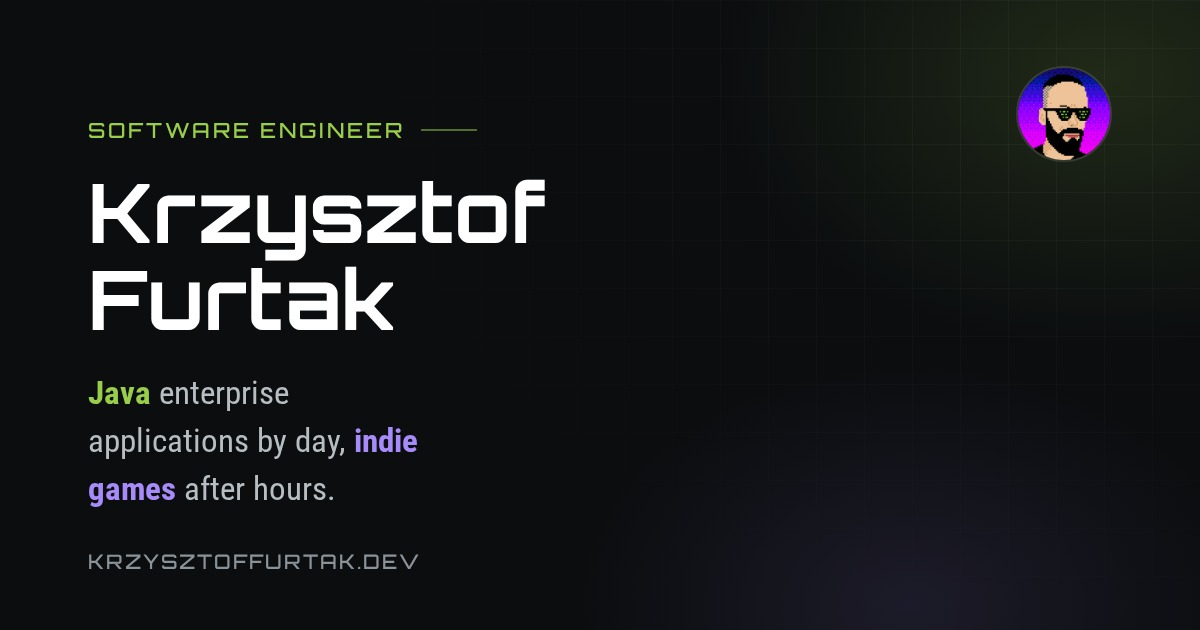
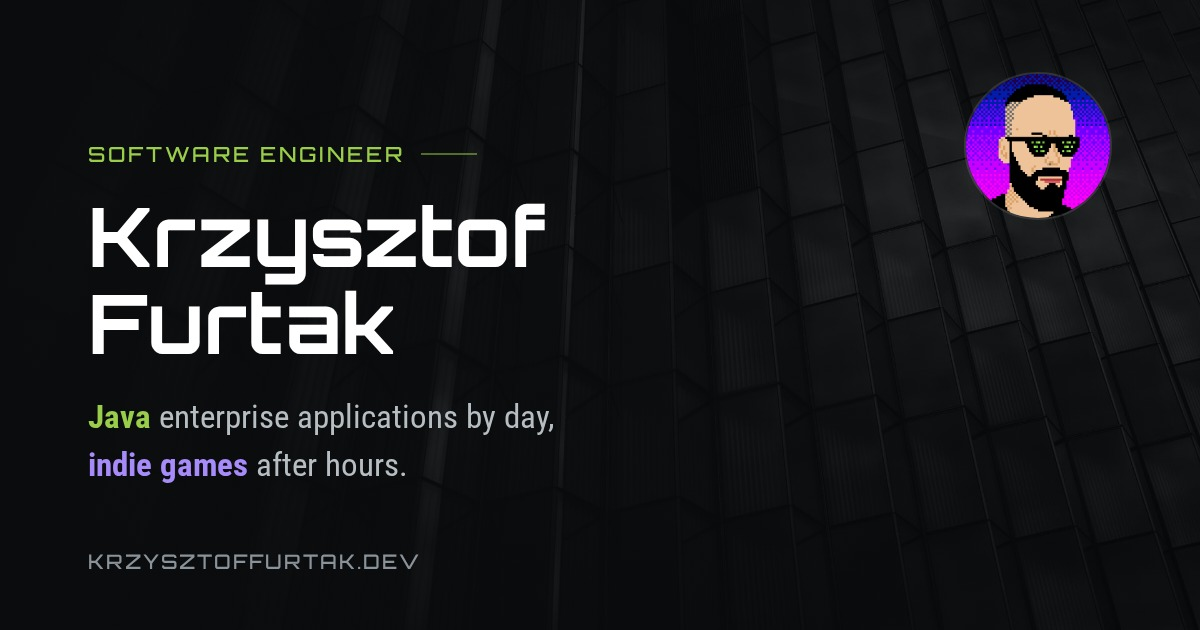
Rewrite the meta description and polish the copy; Size the email button to its content; Rebuild the OG image on the hero photo

diff --git a/src/index.html b/src/index.html
@@ -3,16 +3,16 @@
   <head>
     <meta charset="utf-8">
     <meta name="viewport" content="width=device-width, initial-scale=1">
-    <title>Krzysztof Furtak - Software Engineer</title>
-    <meta name="description" content="The home of my projects and my business card">
+    <title>Krzysztof Furtak — Software Engineer</title>
+    <meta name="description" content="Software engineer building Java enterprise applications by day, and indie games and developer tools after hours.">
     <meta name="author" content="Krzysztof Furtak">
     <meta name="theme-color" content="#0b0d0f">
     <meta name="color-scheme" content="dark">
-    <meta property="og:title" content="Krzysztof Furtak - Software Engineer">
+    <meta property="og:title" content="Krzysztof Furtak — Software Engineer">
     <meta property="og:locale" content="en_US">
     <meta property="og:type" content="website">
     <meta property="og:url" content="https://krzysztoffurtak.dev">
-    <meta property="og:description" content="The home of my projects and my business card">
+    <meta property="og:description" content="Software engineer building Java enterprise applications by day, and indie games and developer tools after hours.">
     <!-- Absolute, because the Open Graph spec asks for it and several scrapers
          will not resolve a root-relative og:image against the page. 1200x630 is
          the ratio LinkedIn, Facebook and X all render without cropping; this
@@ -21,7 +21,7 @@
     <meta property="og:image" content="https://krzysztoffurtak.dev/images/og-image.jpg">
     <meta property="og:image:width" content="1200">
     <meta property="og:image:height" content="630">
-    <meta property="og:image:alt" content="Krzysztof Furtak - software engineer. Java enterprise applications by day, indie games after hours.">
+    <meta property="og:image:alt" content="Krzysztof Furtak, software engineer. Java enterprise applications by day, indie games after hours.">
     <!-- Without this X renders the small square summary card and ignores the
          1.91:1 image entirely. Everything else it needs it takes from og:*. -->
     <meta name="twitter:card" content="summary_large_image">
@@ -80,8 +80,8 @@
           <div class="hero-copy">
             <p class="eyebrow">Hi, my name is</p>
             <h1>Krzysztof Furtak</h1>
-            <p class="lead">I'm a <strong>software engineer</strong> specializing in building Java based enterprise applications.</p>
-            <p class="lead">... and when the night begins to shine I become a solo <strong class="night-begins-to-shine">game developer</strong>.</p>
+            <p class="lead">I'm a <strong>software engineer</strong> specializing in building Java-based enterprise applications.</p>
+            <p class="lead">…and when the night begins to shine, I become a solo <strong class="night-begins-to-shine">game developer</strong>.</p>
             <p class="hero-cta">
               <a href="#section-projects" class="button button-primary">
                 <svg xmlns="http://www.w3.org/2000/svg" viewBox="0 0 384 512" class="icon">
@@ -132,7 +132,7 @@ bansoko/  t0d0/  zecret/
                   <span class="project-year">2019</span>
                 </p>
               </div>
-              <p class="project-desc">Space-themed Soko-Ban clone created in Python using Pyxel.</p>
+              <p class="project-desc">Space-themed Sokoban clone created in Python using Pyxel.</p>
               <ul class="project-tags">
                 <li>Python</li>
                 <li>Pyxel</li>

diff --git a/src/css/main.css b/src/css/main.css
@@ -1209,15 +1209,17 @@ strong.night-begins-to-shine {
    cannot stretch to match, and the default `normal` alignment left it hanging
    from the top of a taller row: 10.8px short at desktop, and 39.6px at 320px
    where the button's label wraps to two lines. */
+/* Sized to the address rather than stretched: a wide green bar with the text
+   at its left edge reads as an input field, not a button. */
 .email-controls {
   display: flex;
   align-items: center;
-  width: min(100%, 31rem);
+  max-width: 100%;
   gap: var(--space-2);
 }
 
 .email-controls .button {
-  flex: 1;
+  flex: 0 1 auto;
   min-width: 0;
 }
 
@@ -1284,6 +1286,7 @@ strong.night-begins-to-shine {
   }
 
   .email-controls .button {
+    flex: 1;
     justify-content: center;
   }
 

diff --git a/README.md b/README.md
@@ -69,7 +69,7 @@ Two images in [`public/images/`](public/images) are produced by scripts rather t
 
 The starfield is deterministic: same seed, same bytes, so re-running it produces no diff unless you changed something. It is 9.4 kB that gzips to 2.0 kB.
 
-The OG card renders in the site's real fonts, pulled out of `node_modules` and inlined as `data:` URIs — a page built with `setContent()` has no origin and Chromium silently refuses to load `file://` subresources into it, so the script asserts both faces actually loaded before it screenshots. It is the largest file in the build at 58 kB, but no visitor ever downloads it; only scrapers do.
+The OG card renders over the hero photograph and in the site's real fonts, pulled out of `node_modules` and inlined as `data:` URIs — a page built with `setContent()` has no origin and Chromium silently refuses to load `file://` subresources into it, so the script asserts both faces actually loaded before it screenshots. At 84 kB it is the largest image in the build, but no visitor ever downloads it; only scrapers do.
 
 ### Configuration
 
